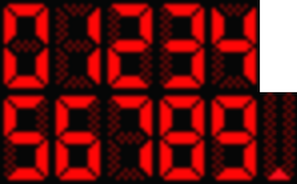
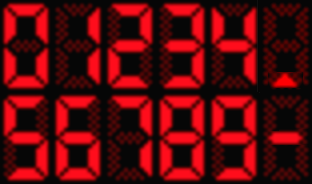
Added dash and decimal to the digits glyph.  Didn't break anything.

diff --git a/public/images/tmp.html b/public/images/tmp.html
@@ -1,0 +1,3 @@
+<html><body>
+  <img src="digits.png" width=260 height=184><img src="minus.png" width=52 height=92">
+</body></html>
